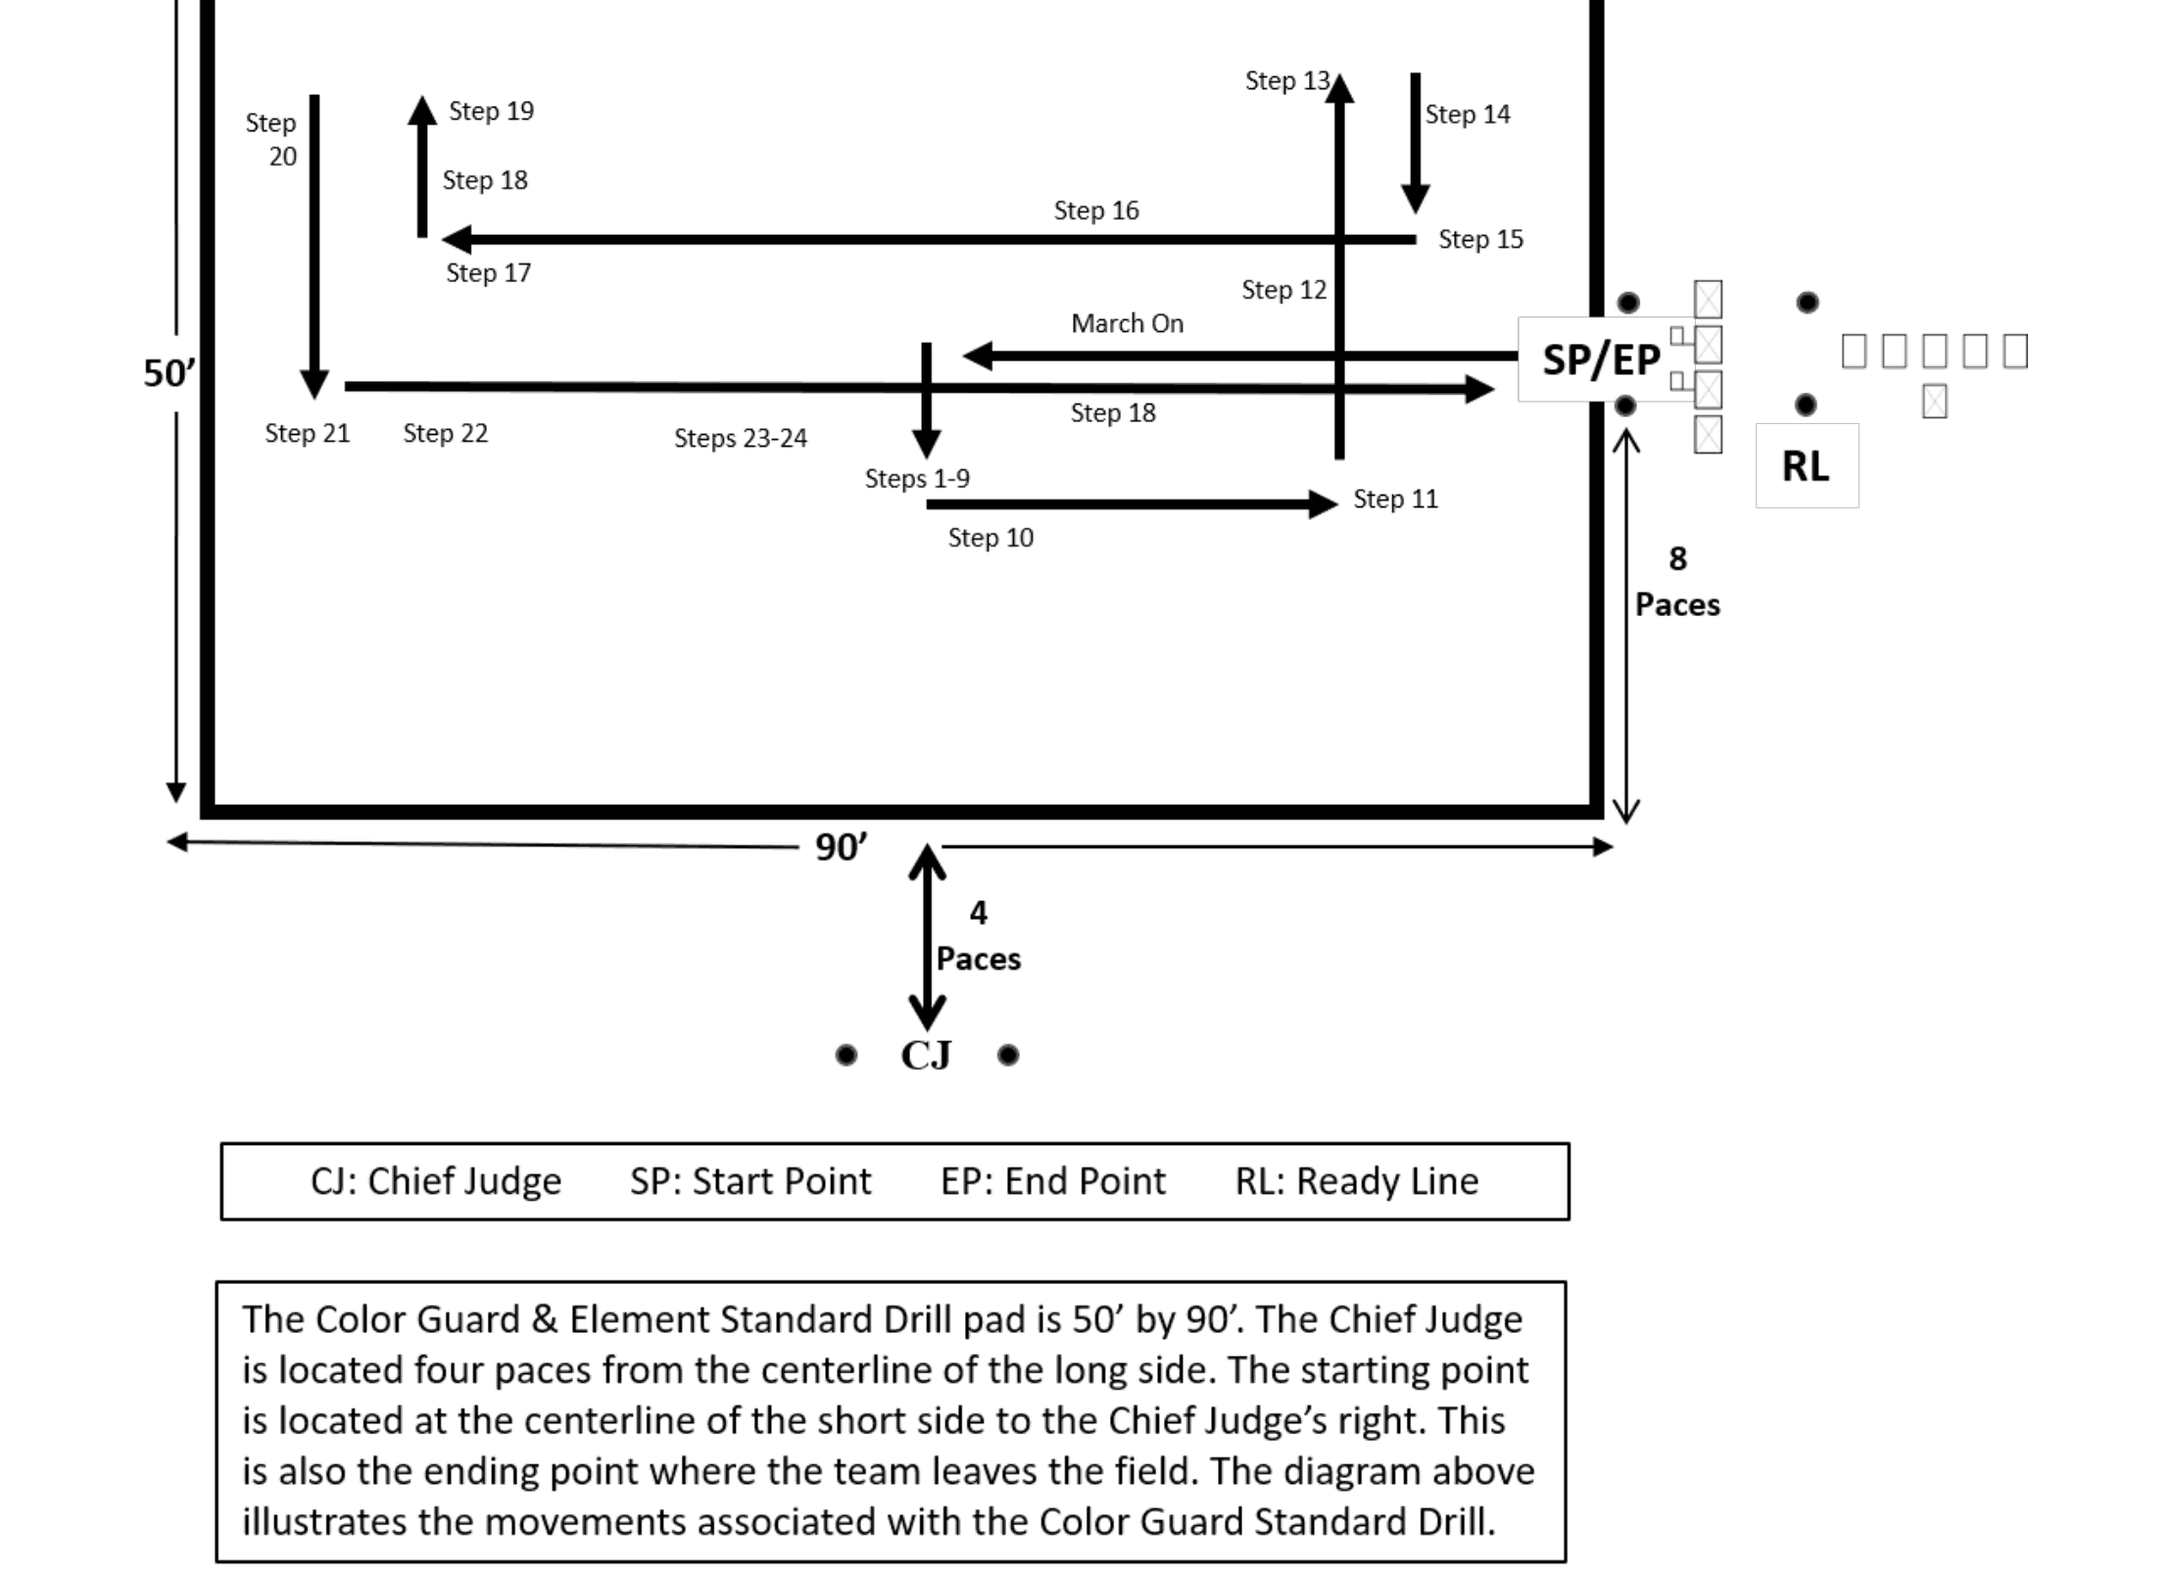
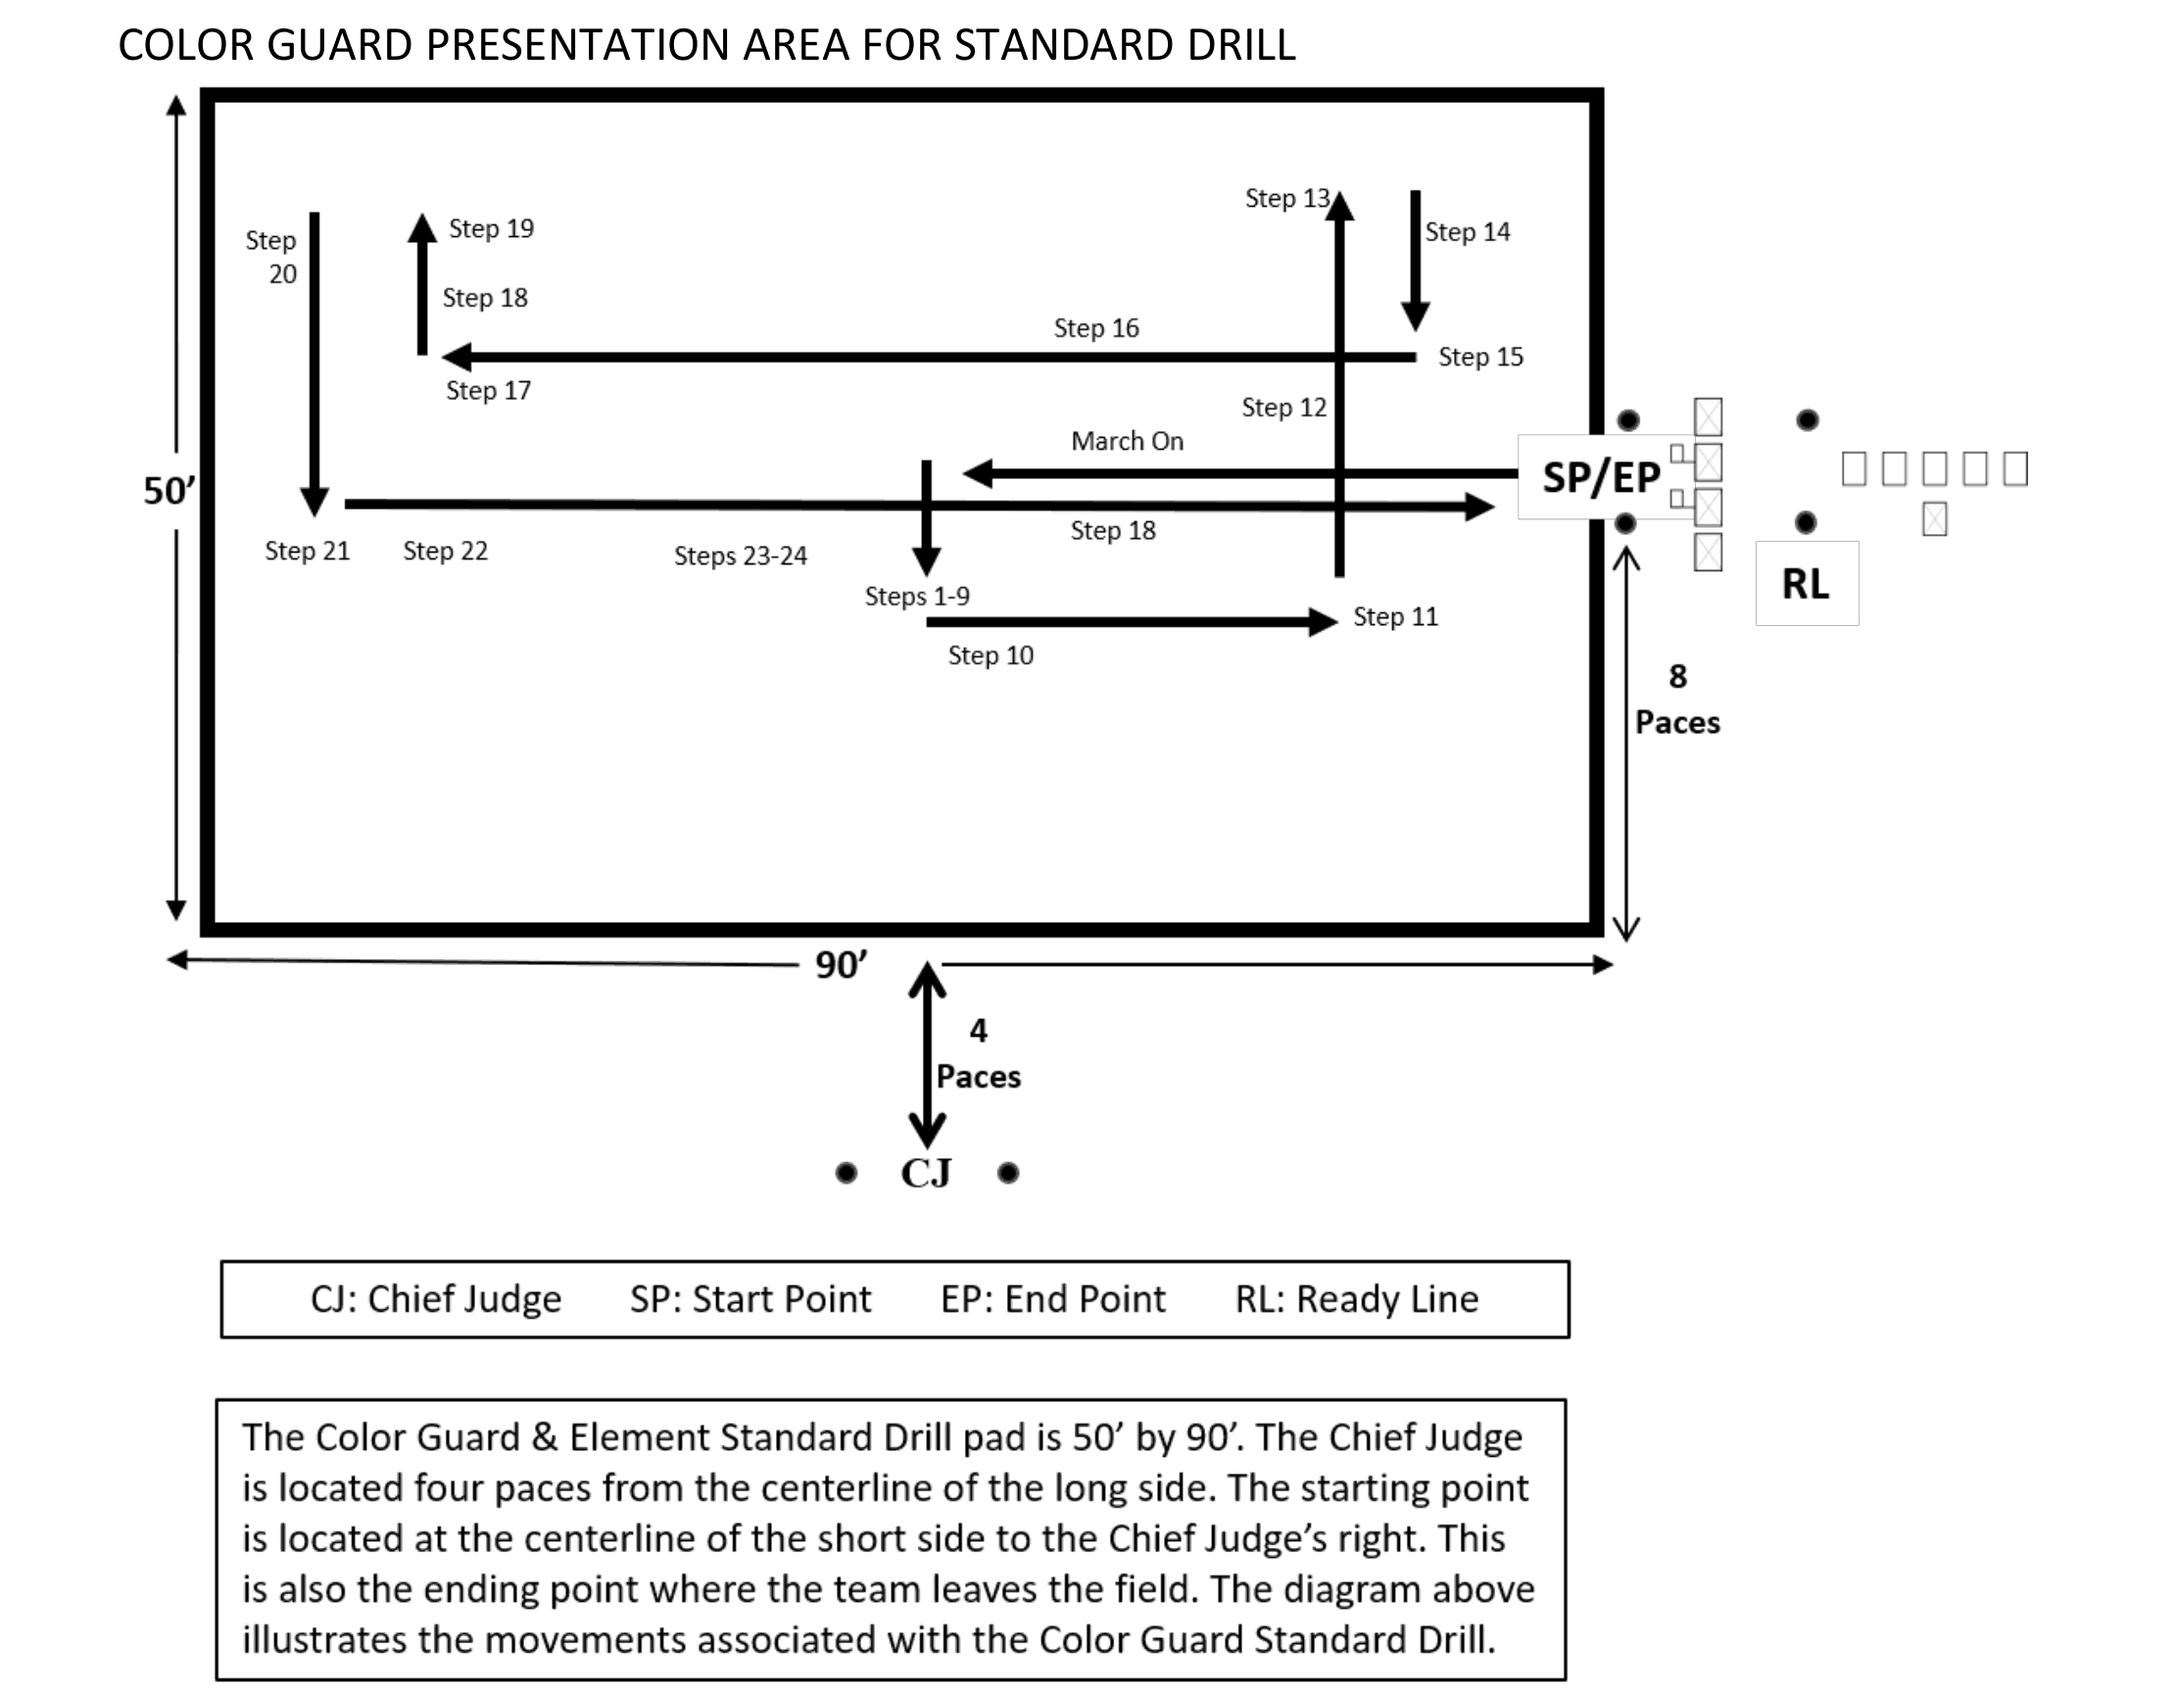
drill-test: competition guides match CAPP 60-75 after independent check
- Region/wing note now quotes the Preface (Part 2 at a minimum), not
  para 1-5, which only lists events.
- Score marks stated exactly: 0/5/8/15 and 0/3/6/10 (Attachment 1).
- 'No maximum time' also cited to Element (8)(b).
- Presentation-area diagram re-cut with its heading and top border.
Everything else (24-command routine, report in/out, timing, penalties,
CAPP 60-33 cross-references) confirmed.

Claude-Session: https://claude.ai/code/session_01519eEKVL81dqXVdAU4mopz

diff --git a/tools/drill-test/src/guides.ts b/tools/drill-test/src/guides.ts
@@ -203,7 +203,7 @@ export const GUIDES: Guide[] = [
     purpose: [
       { text: 'Tests the team\'s proficiency marching as a color guard. Scored together with Element Standard Drill for the Standard Drill event, on a 50 ft by 90 ft drill pad.', ref: 'CAPP 60-75 ¶2-3a' },
       { text: 'The 24 commands are given in sequence with no added commands. Tap each one as the team executes it, like the judges\' sequence table.', ref: 'CAPP 60-75 ¶2-3b(3); Attachment 1' },
-      { text: 'CAPP 60-75 sets the national event. Confirm with your event director what applies at a wing or region competition.', ref: 'Practice note, not from CAPP 60-75' },
+      { text: 'Region and wing competitions operate under Part 2, Core Team Events, at a minimum, and are encouraged to use the rest of the guide. Confirm the details with your event director.', ref: 'CAPP 60-75 Preface' },
     ],
     roles: [
       'Team of four cadets (CAPP 60-75 ¶1-5)',
@@ -244,7 +244,7 @@ export const GUIDES: Guide[] = [
       { text: "March off the presentation area to the end point. Do not report out to the Chief Judge. The clock stops when the team steps out of the presentation area.", who: "Color guard", ref: "CAPP 60-75 \u00b62-3b(4), (5)" },
     ],
     watch: [
-      { text: 'Judged: in-place commands and posture, marching and cadence, turning movements, alignment and uniformity (0-15 points each); voice commands, flag procedures, poise (0-10 each).', ref: 'CAPP 60-75 Attachment 1, Color Guard Standard Drill scorecard' },
+      { text: 'Judged: in-place commands and posture, marching and cadence, turning movements, alignment and uniformity (marked 0, 5, 8 or 15 each); voice commands, flag procedures, poise (marked 0, 3, 6 or 10 each).', ref: 'CAPP 60-75 Attachment 1, Color Guard Standard Drill scorecard' },
       { text: 'Penalties, 3 points each, given only by the Chief Judge: a movement out of sequence or omitted, a boundary violation, finishing in under 2 minutes 30 seconds. There is no maximum time.', ref: 'CAPP 60-75 ¶2-3b(4); Attachment 1' },
       { text: 'Use the entire presentation area, as the diagram shows.', ref: 'CAPP 60-75 ¶2-3b(5)' },
       { text: 'CAPP 60-75 (2021) still cites AFMAN 36-2203. Current CAP drill guidance, CAPP 60-33 (Nov 2025), is based on DAFPAM 34-1203.', ref: 'CAPP 60-75 ¶2-3; CAPP 60-33 ¶7.1.1' },
@@ -281,7 +281,7 @@ export const GUIDES: Guide[] = [
     ],
     watch: [
       { text: 'Judging criteria: precision of execution (dress, cover, alignment, sequence); accuracy of movements; cadence (timing and snap); command voice (timing, snap, clarity); professionalism (bearing, esprit de corps, poise); proper report and dismissal.', ref: 'CAPP 60-75 ¶2-3b Element (7)' },
-      { text: 'Penalties, 3 points each, given only by the Chief Judge: a movement out of sequence or omitted, a boundary violation, finishing in under 2 minutes 30 seconds. There is no maximum time.', ref: 'CAPP 60-75 Attachment 1, Element Standard Drill scorecard' },
+      { text: 'Penalties, 3 points each, given only by the Chief Judge: a movement out of sequence or omitted, a boundary violation, finishing in under 2 minutes 30 seconds. There is no maximum time.', ref: 'CAPP 60-75 ¶2-3b Element (8)(b); Attachment 1, Element Standard Drill scorecard' },
       { text: 'Do not try to memorize the card. Reading it is expected; there is no penalty for the hand and head movements needed to read it.', ref: 'CAPP 60-75 ¶2-3b Element (1)' },
       { text: 'If the space means marching in from another direction, reach the same position and continue as written.', ref: 'CAPP 60-75 ¶2-3b Element (3)' },
     ],
